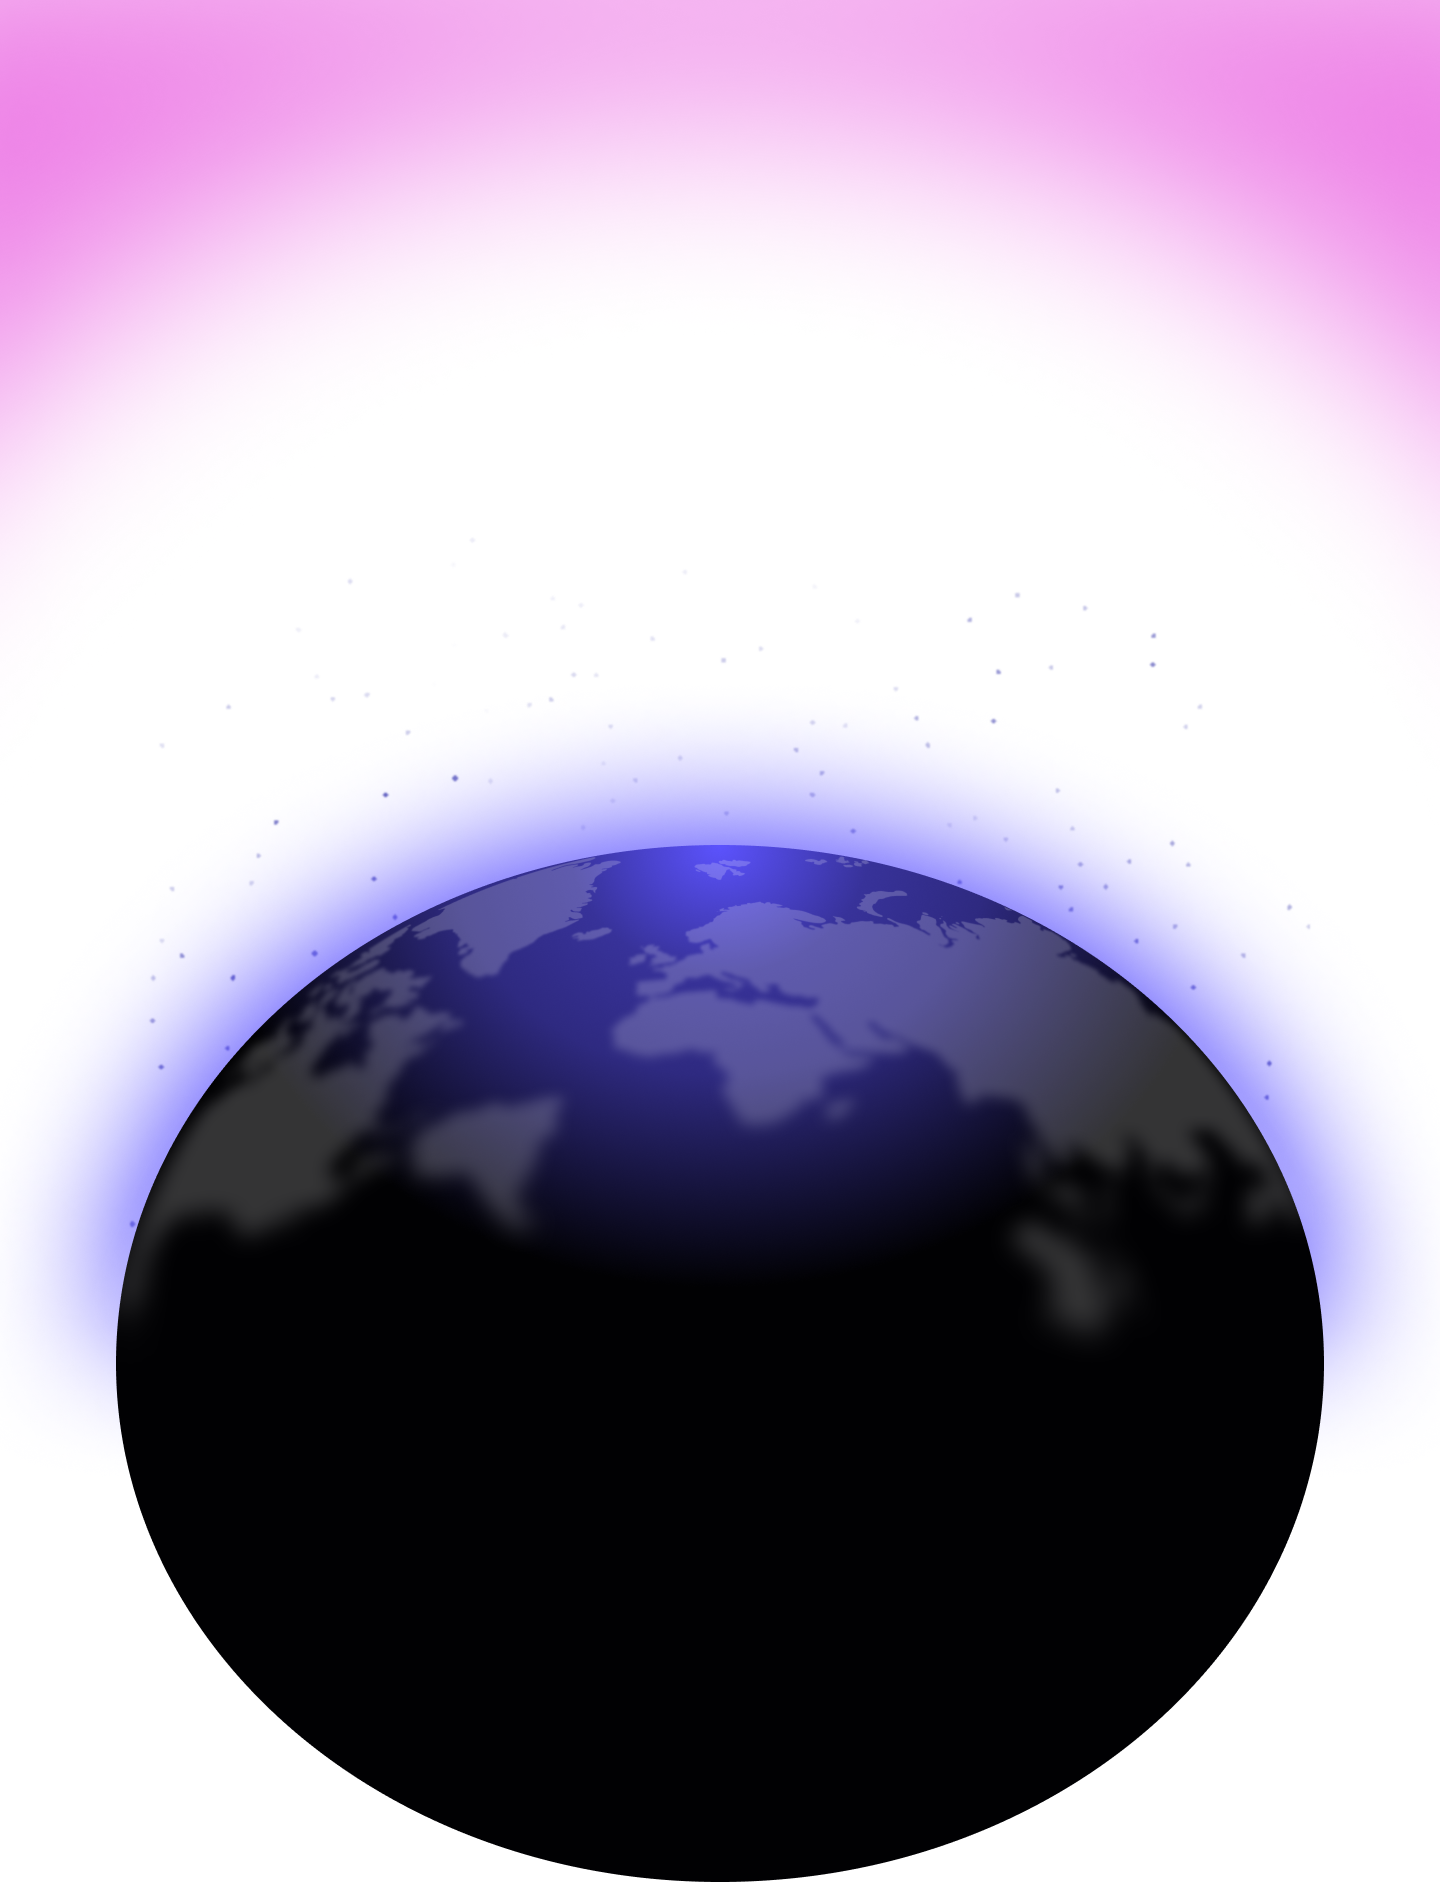
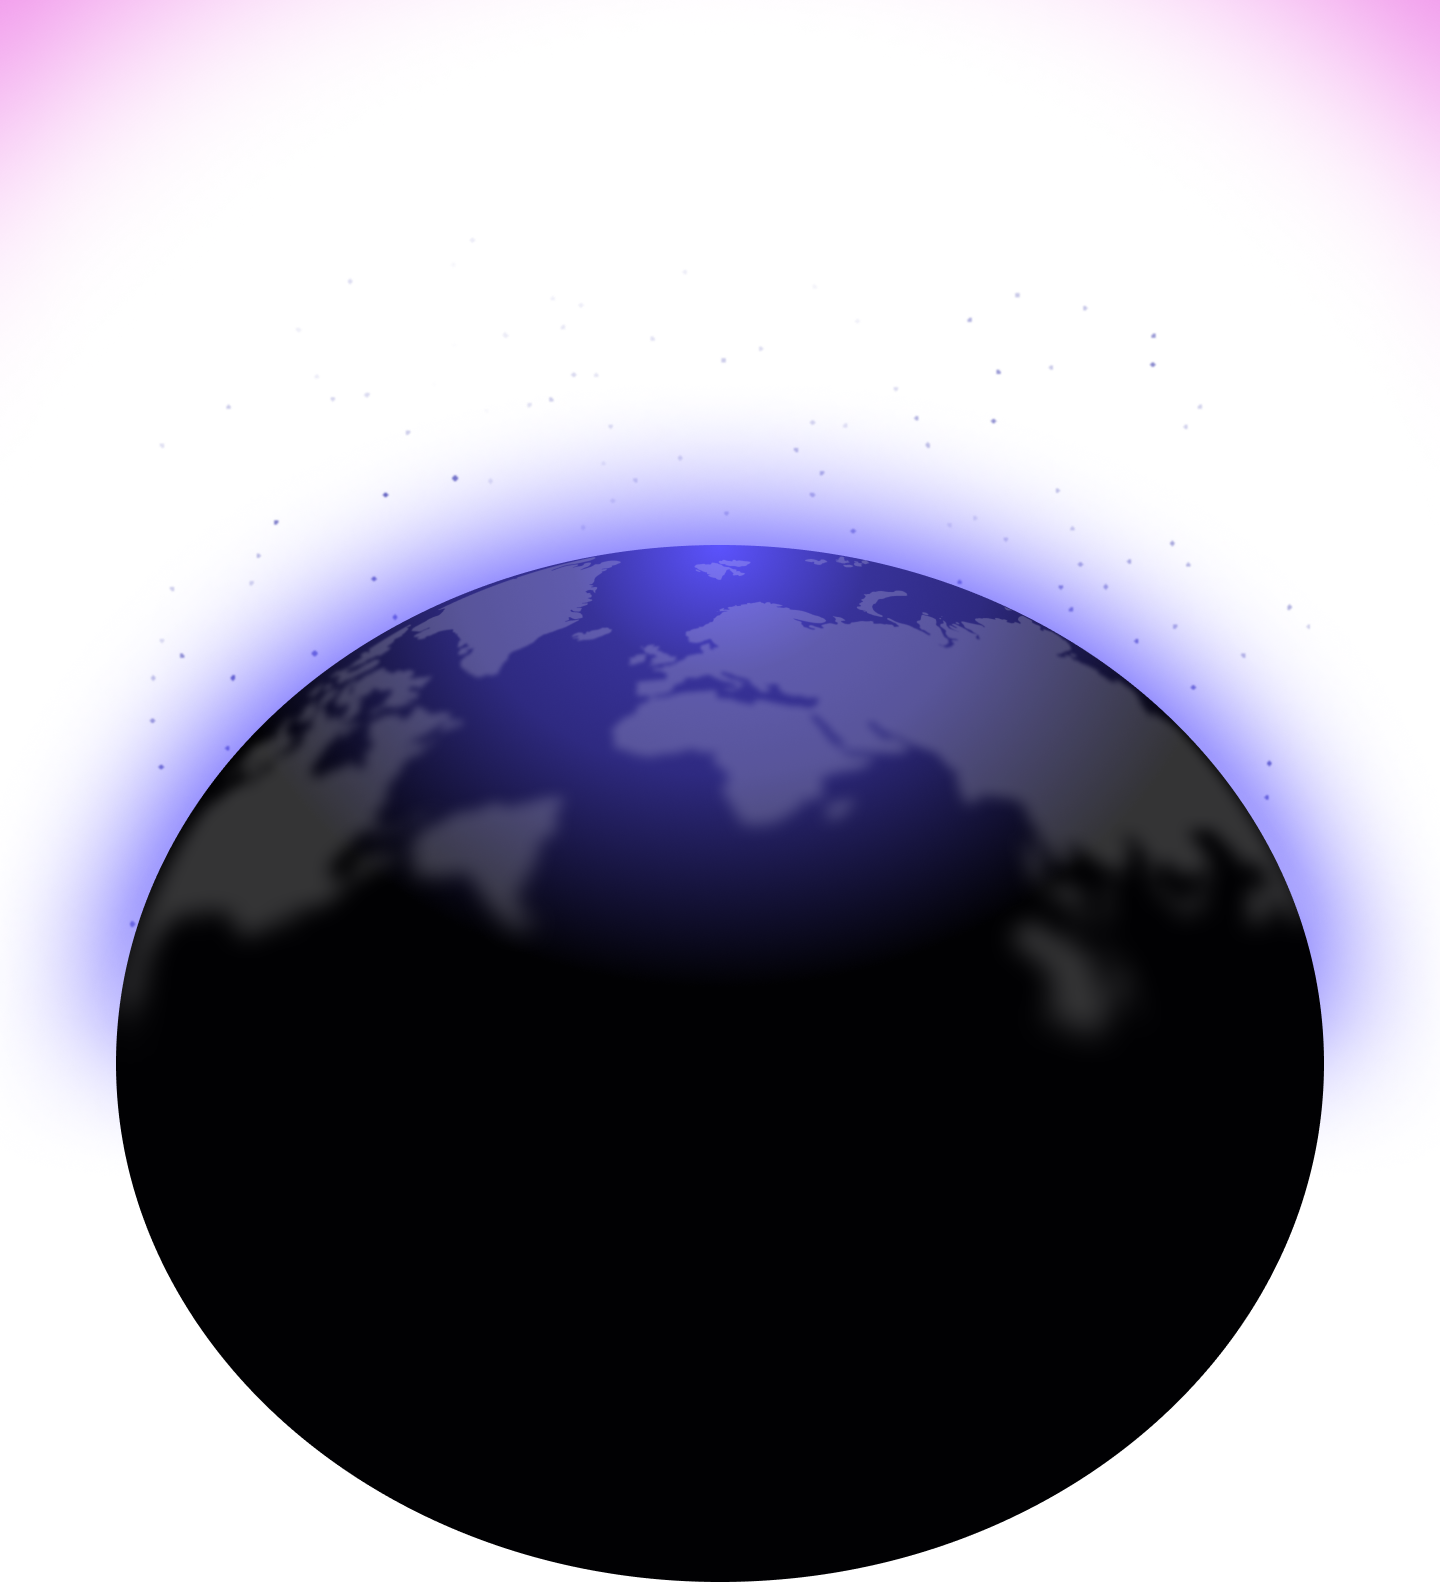
added hero section

diff --git a/components/Hero.tsx b/components/Hero.tsx
@@ -1,0 +1,180 @@
+import Image from "next/image"
+import Link from "next/link"
+import {
+  Briefcase,
+  Building2,
+  FileSearch,
+  MapPin,
+  Search,
+  Star,
+  UserSearch,
+  type LucideIcon,
+} from "lucide-react"
+
+/* ---------- Editable content ---------- */
+
+const trendingPositions = ["Product Designer", "AI Engineering", "Dev-ops Engineer"]
+
+const stats: { icon: LucideIcon; value: string; label: string }[] = [
+  { icon: FileSearch, value: "50K", label: "Active Jobs" },
+  { icon: Building2, value: "12K", label: "Companies" },
+  { icon: UserSearch, value: "2M", label: "Job Seekers" },
+  { icon: Star, value: "97%", label: "Satisfaction Rate" },
+]
+
+/* ---------- Small pieces ---------- */
+
+function Badge() {
+  return (
+    <div className="flex items-center justify-center gap-3">
+      <span className="h-px w-12 bg-gradient-to-r from-transparent to-white/20 sm:w-20" />
+      <div className="inline-flex items-center gap-2 rounded-full border border-white/10 bg-[#141414] px-4 py-2 text-xs shadow-lg">
+        <Briefcase className="size-4 text-orange-400" aria-hidden="true" />
+        <span className="font-mono font-bold text-white">50,000+</span>
+        <span className="font-mono uppercase text-white/50">new jobs this month</span>
+      </div>
+      <span className="h-px w-12 bg-gradient-to-l from-transparent to-white/20 sm:w-20" />
+    </div>
+  )
+}
+
+function SearchBar() {
+  return (
+    <form
+      action="/browse-jobs"
+      className="mx-auto flex w-full max-w-xl flex-col gap-1 rounded-xl border border-white/10 bg-[#111] p-2 sm:h-[46px] sm:flex-row sm:items-center sm:gap-0 sm:p-0 sm:pl-1 sm:pr-2"
+    >
+      <label className="flex flex-1 items-center gap-2 px-3 py-2">
+        <Search className="size-4 shrink-0 text-white/80" aria-hidden="true" />
+        <input
+          name="q"
+          type="text"
+          placeholder="Job title, skill or company"
+          className="w-full bg-transparent text-xs text-white placeholder:text-white/50 focus:outline-none"
+        />
+      </label>
+
+      <span aria-hidden="true" className="hidden h-5 w-px bg-white/10 sm:block" />
+
+      <label className="flex flex-1 items-center gap-2 px-3 py-2">
+        <MapPin className="size-4 shrink-0 text-white/80" aria-hidden="true" />
+        <input
+          name="location"
+          type="text"
+          placeholder="Location or Remote"
+          className="w-full bg-transparent text-xs text-white placeholder:text-white/50 focus:outline-none"
+        />
+      </label>
+
+      <button
+        type="submit"
+        aria-label="Search jobs"
+        className="inline-flex h-9 w-full items-center justify-center rounded-lg bg-[#5B4BF5] text-white transition-colors hover:bg-[#4a3be0] sm:w-9"
+      >
+        <Search className="size-4" />
+      </button>
+    </form>
+  )
+}
+
+function TrendingRow() {
+  return (
+    <div className="flex flex-wrap items-center justify-center gap-2 text-xs">
+      <span className="text-white/60">Trending Position</span>
+      {trendingPositions.map((item) => (
+        <Link
+          key={item}
+          href={`/browse-jobs?q=${encodeURIComponent(item)}`}
+          className="rounded-full border border-white/10 bg-white/5 px-3 py-1.5 text-[11px] text-white/85 transition-colors hover:bg-white/10"
+        >
+          {item}
+        </Link>
+      ))}
+    </div>
+  )
+}
+
+function StatCard({
+  icon: Icon,
+  value,
+  label, }: {
+    icon: LucideIcon
+    value: string
+    label: string
+  }) {
+  return (
+    <div className="flex min-h-40 flex-col justify-between rounded-xl border border-white/10 bg-gradient-to-b from-black to-[#1a1a1a] p-5 md:min-h-44">
+      <Icon className="size-4 text-white" aria-hidden="true" />
+      <div>
+        <p className="text-4xl font-medium text-white md:text-[42px]">{value}</p>
+        <p className="mt-1 text-xs text-white/85">{label}</p>
+      </div>
+    </div>
+  )
+}
+
+/* ---------- Hero ---------- */
+
+export function Hero() {
+  return (
+    <section className="relative isolate overflow-hidden bg-[linear-gradient(to_bottom,#1a1a1a_0px,#000_320px)] bg-black">
+      {/* Globe: width is set once in --gw, bottom offset is calculated from it */}
+      <div
+        aria-hidden="true"
+        className="pointer-events-none absolute left-1/2 -z-10 w-(--gw) -translate-x-1/2 bottom-[calc(var(--gw)*-0.212)] [--gw:210vw] sm:[--gw:130vw] md:[--gw:min(112vw,1100px)]"
+        style={{
+          WebkitMaskImage:
+            "linear-gradient(to bottom, transparent 0%, transparent 22%, black 31%)",
+          maskImage:
+            "linear-gradient(to bottom, transparent 0%, transparent 22%, black 31%)",
+        }}
+      >
+        <Image
+          src="/images/globe.png"
+          alt=""
+          width={1440}
+          height={1582}
+          priority
+          sizes="100vw"
+          className="h-auto w-full"
+        />
+      </div>
+
+      <div className="mx-auto max-w-7xl px-3 pb-24 pt-24 md:px-5 md:pb-32 md:pt-28">
+        <div className="flex flex-col items-center text-center">
+          <Badge />
+
+          <h1 className="mt-7 text-4xl font-bold tracking-tight text-white lg:text-5xl">
+            Find Your Dream Job Today
+          </h1>
+
+          <p className="mt-4 max-w-xl text-sm leading-relaxed text-white/60 md:text-base">
+            HireLoop connects top talent with world-class companies. Browse thousands
+            of curated opportunities and land your next role — faster.
+          </p>
+
+          <div className="mt-9 w-full">
+            <SearchBar />
+          </div>
+
+          <div className="mt-5">
+            <TrendingRow />
+          </div>
+
+          {/* Space where the globe's top glow shows */}
+          <p className="mt-44 max-w-md text-2xl font-light leading-snug text-white/55 md:mt-60 md:max-w-lg md:text-[28px]">
+            Assisting over{" "}
+            <span className="font-normal text-white">15,000 job seekers</span> find
+            their dream positions.
+          </p>
+        </div>
+
+        <div className="mt-10 grid w-full grid-cols-2 gap-3 md:grid-cols-4">
+          {stats.map((stat) => (
+            <StatCard key={stat.label} {...stat} />
+          ))}
+        </div>
+      </div>
+    </section>
+  )
+}

diff --git a/components/Navbar.tsx b/components/Navbar.tsx
@@ -6,6 +6,12 @@ import Link from "next/link"
 import { Menu, X } from "lucide-react"
 import { cn } from "@/lib/utils"
 
+const navLinks = [
+  { label: "Browse Jobs", href: "/browse-jobs" },
+  { label: "Company", href: "/company" },
+  { label: "Pricing", href: "/pricing" },
+]
+
 function Logo() {
   return (
     <Link href="/" className="flex shrink-0 items-center">
@@ -14,36 +20,36 @@ function Logo() {
         alt="HireLoop"
         width={112}
         height={40}
-        className="h-8 w-auto md:h-9"
+        className="h-7 w-auto md:h-8"
         priority
       />
     </Link>
   )
 }
 
-
-const navLinks = [
-  { label: 'Browse Job', href: '/browse-job' },
-  { label: 'Company', href: '/company' },
-  { label: 'Pricing', href: '/pricing' }
-
-]
-
-
-function ActionLinks({ className, onNavigate }: { className?: string; onNavigate?: () => void }) {
+function ActionLinks({
+  className,
+  onNavigate,
+}: {
+  className?: string
+  onNavigate?: () => void
+}) {
   return (
-    <div className={cn("items-center gap-5", className)}>
+    <div className={cn("items-center gap-6", className)}>
       {navLinks.map((link) => (
         <Link
           key={link.label}
           href={link.href}
           onClick={onNavigate}
-          className="text-sm text-white/85 transition-colors hover:text-white"
+          className="text-xs font-medium text-white transition-colors hover:text-white/70"
         >
           {link.label}
         </Link>
       ))}
+
+      {/* Divider (hidden on mobile) */}
       <span aria-hidden="true" className="hidden h-5 w-px bg-white/20 md:block" />
+
       <Link
         href="/sign-in"
         onClick={onNavigate}
@@ -54,7 +60,7 @@ function ActionLinks({ className, onNavigate }: { className?: string; onNavigate
       <Link
         href="/get-started"
         onClick={onNavigate}
-        className="inline-flex items-center justify-center rounded-full bg-[#6D5CE8] px-5 py-2 text-sm font-medium text-white transition-colors hover:bg-[#5b4ad6]"
+        className="inline-flex items-center justify-center rounded-lg bg-[#5B4BF5] px-5 py-2.5 text-sm font-medium text-white transition-colors hover:bg-[#4a3be0]"
       >
         Get Started
       </Link>
@@ -66,12 +72,12 @@ export function Navbar() {
   const [open, setOpen] = useState(false)
 
   return (
-    <header className="p-3 md:p-5">
+    <header className="bg-[#1a1a1a] p-3 md:p-3">
       <div className="mx-auto max-w-7xl">
-        <div className="flex items-center justify-between rounded-2xl bg-[#141414] px-4 py-3 md:px-6">
+        <div className="flex items-center justify-between rounded-xl border border-white/5 bg-[#232323] px-4 py-3 md:px-5">
           <Logo />
 
-          {/* Desktop actions */}
+          {/* Desktop */}
           <ActionLinks className="hidden md:flex" />
 
           {/* Mobile toggle */}
@@ -91,11 +97,11 @@ export function Navbar() {
         {open && (
           <div
             id="mobile-menu"
-            className="mt-2 rounded-2xl bg-[#141414] p-4 md:hidden"
+            className="mt-2 rounded-xl border border-white/5 bg-[#232323] p-4 md:hidden"
           >
             <ActionLinks
               onNavigate={() => setOpen(false)}
-              className="flex flex-col items-stretch gap-4 [&>span]:hidden"
+              className="flex flex-col items-end gap-4 text-right [&>span]:hidden"
             />
           </div>
         )}

diff --git a/app/page.tsx b/app/page.tsx
@@ -1,7 +1,9 @@
+import { Hero } from "@/components/Hero"
 
 export default function Page() {
   return (
     <div className="min-h-svh bg-[#0a0a0a]">
+      <Hero />
 
     </div>
   )
